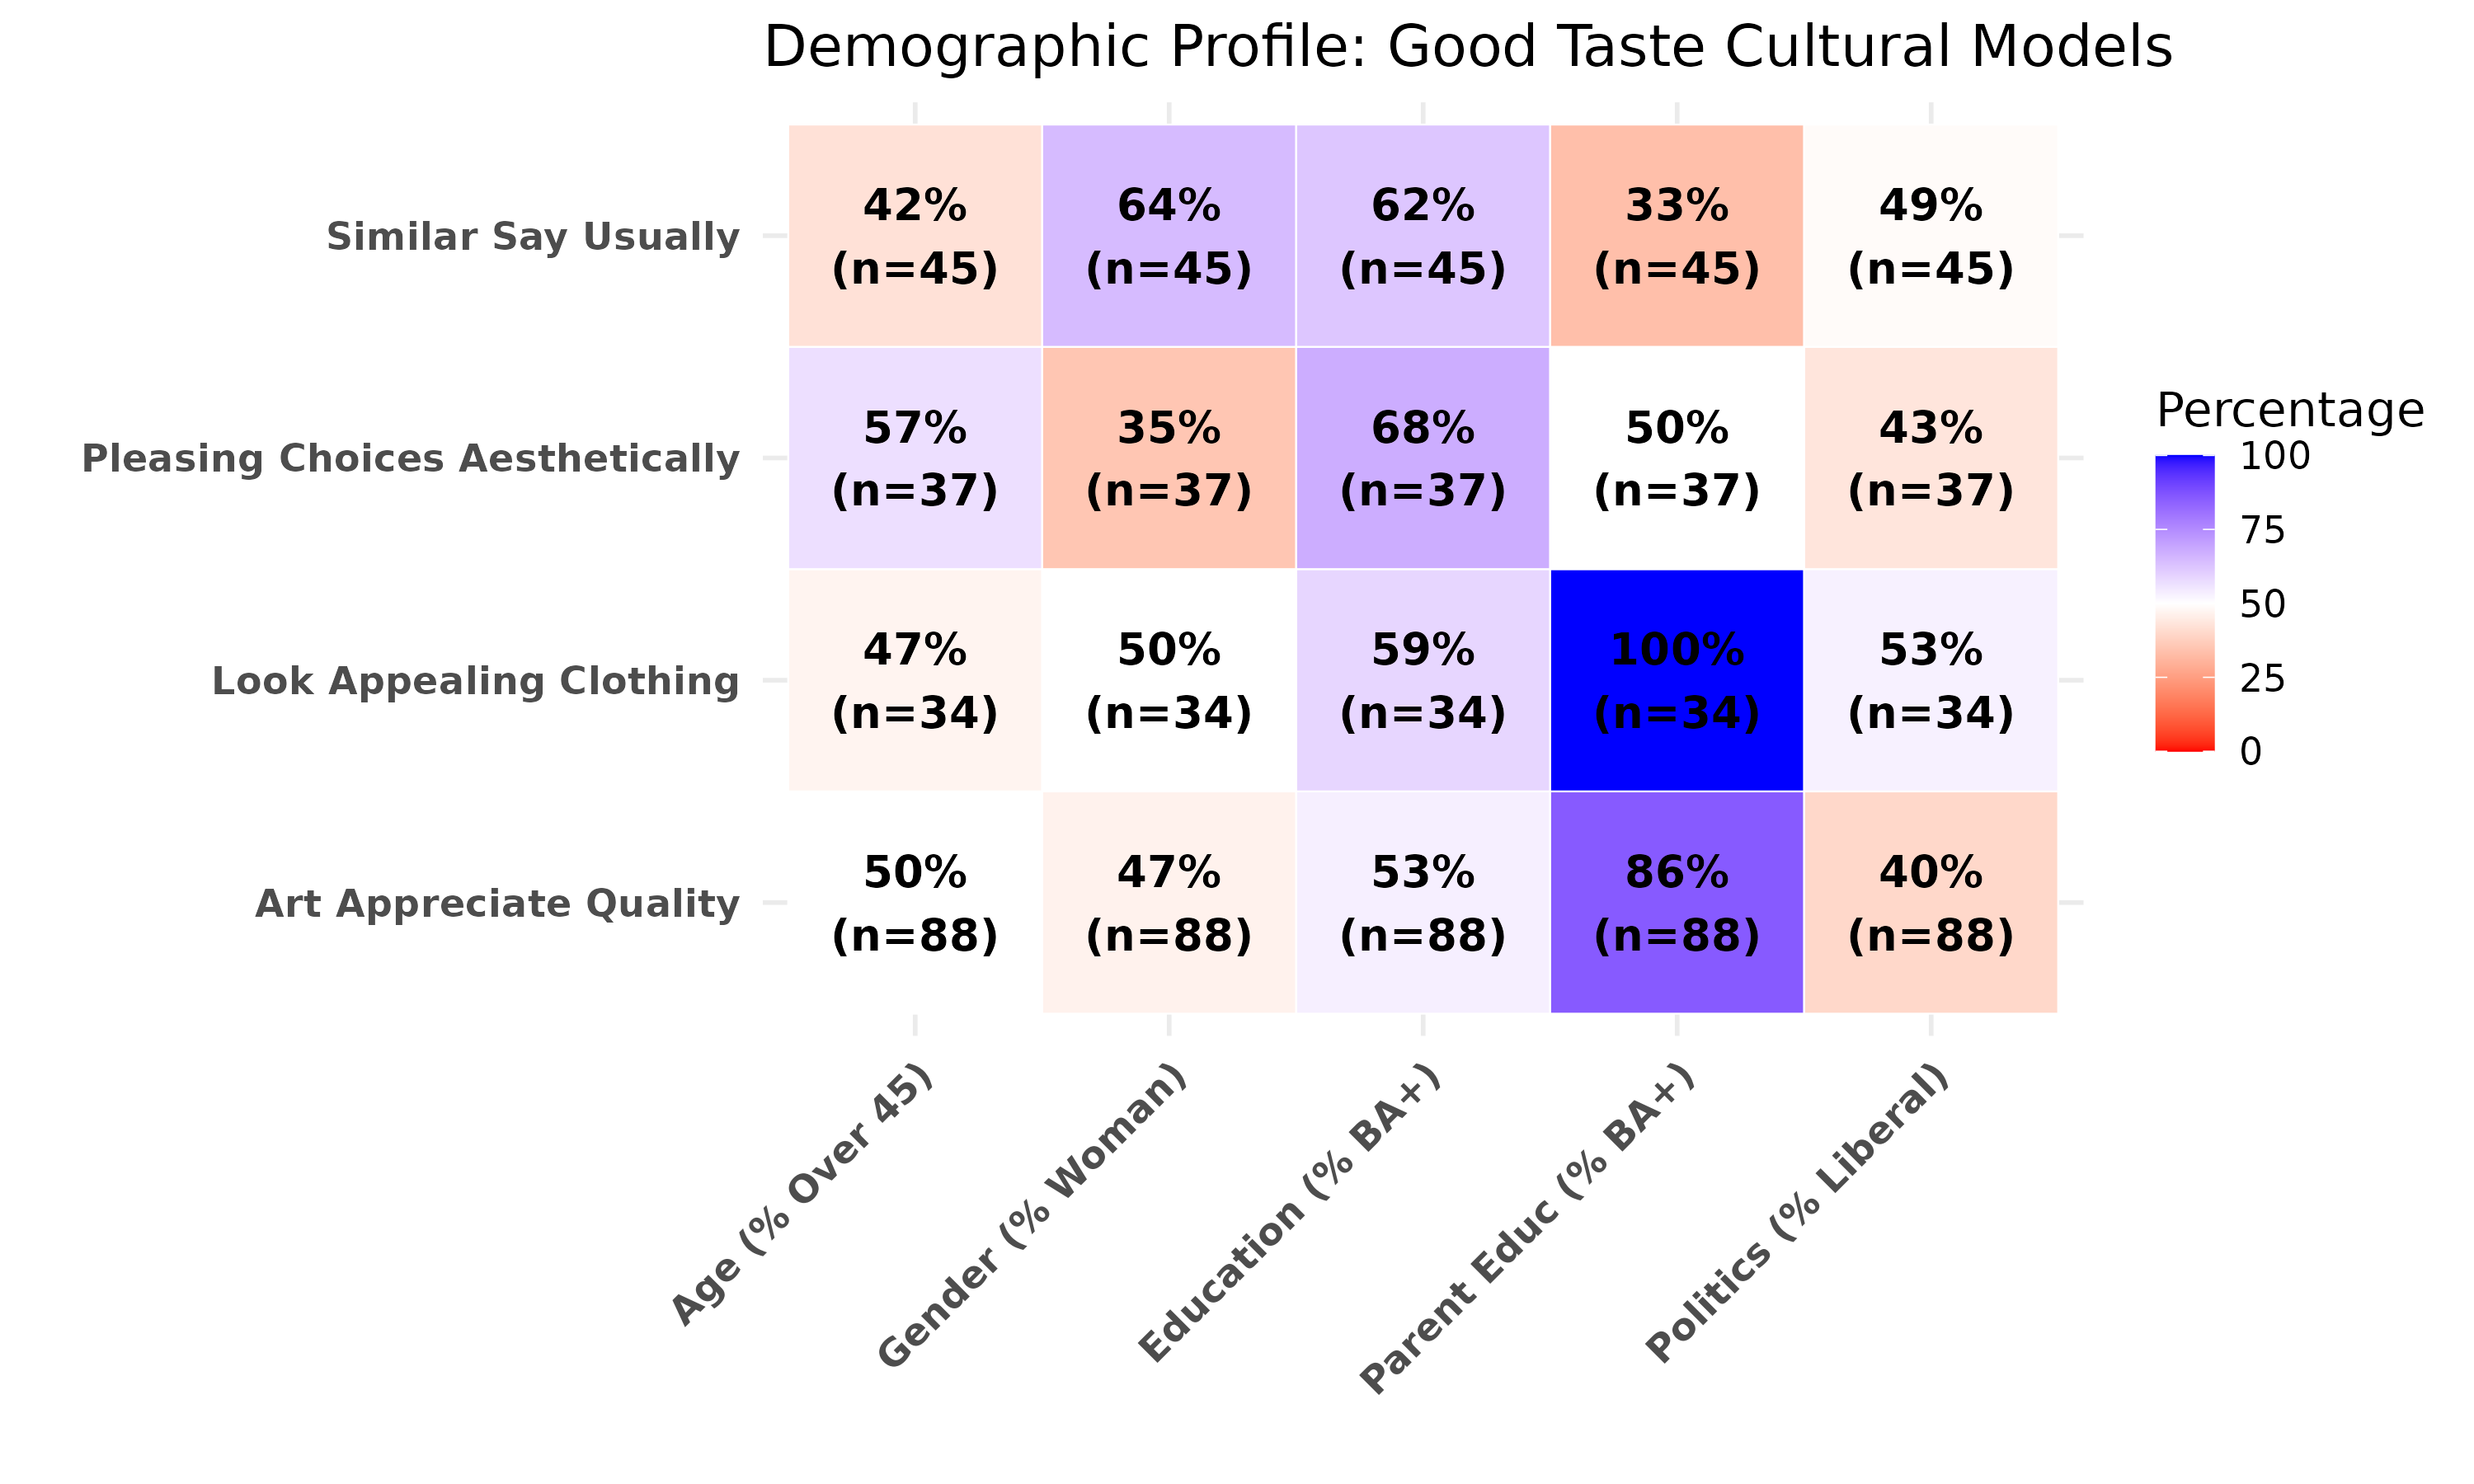
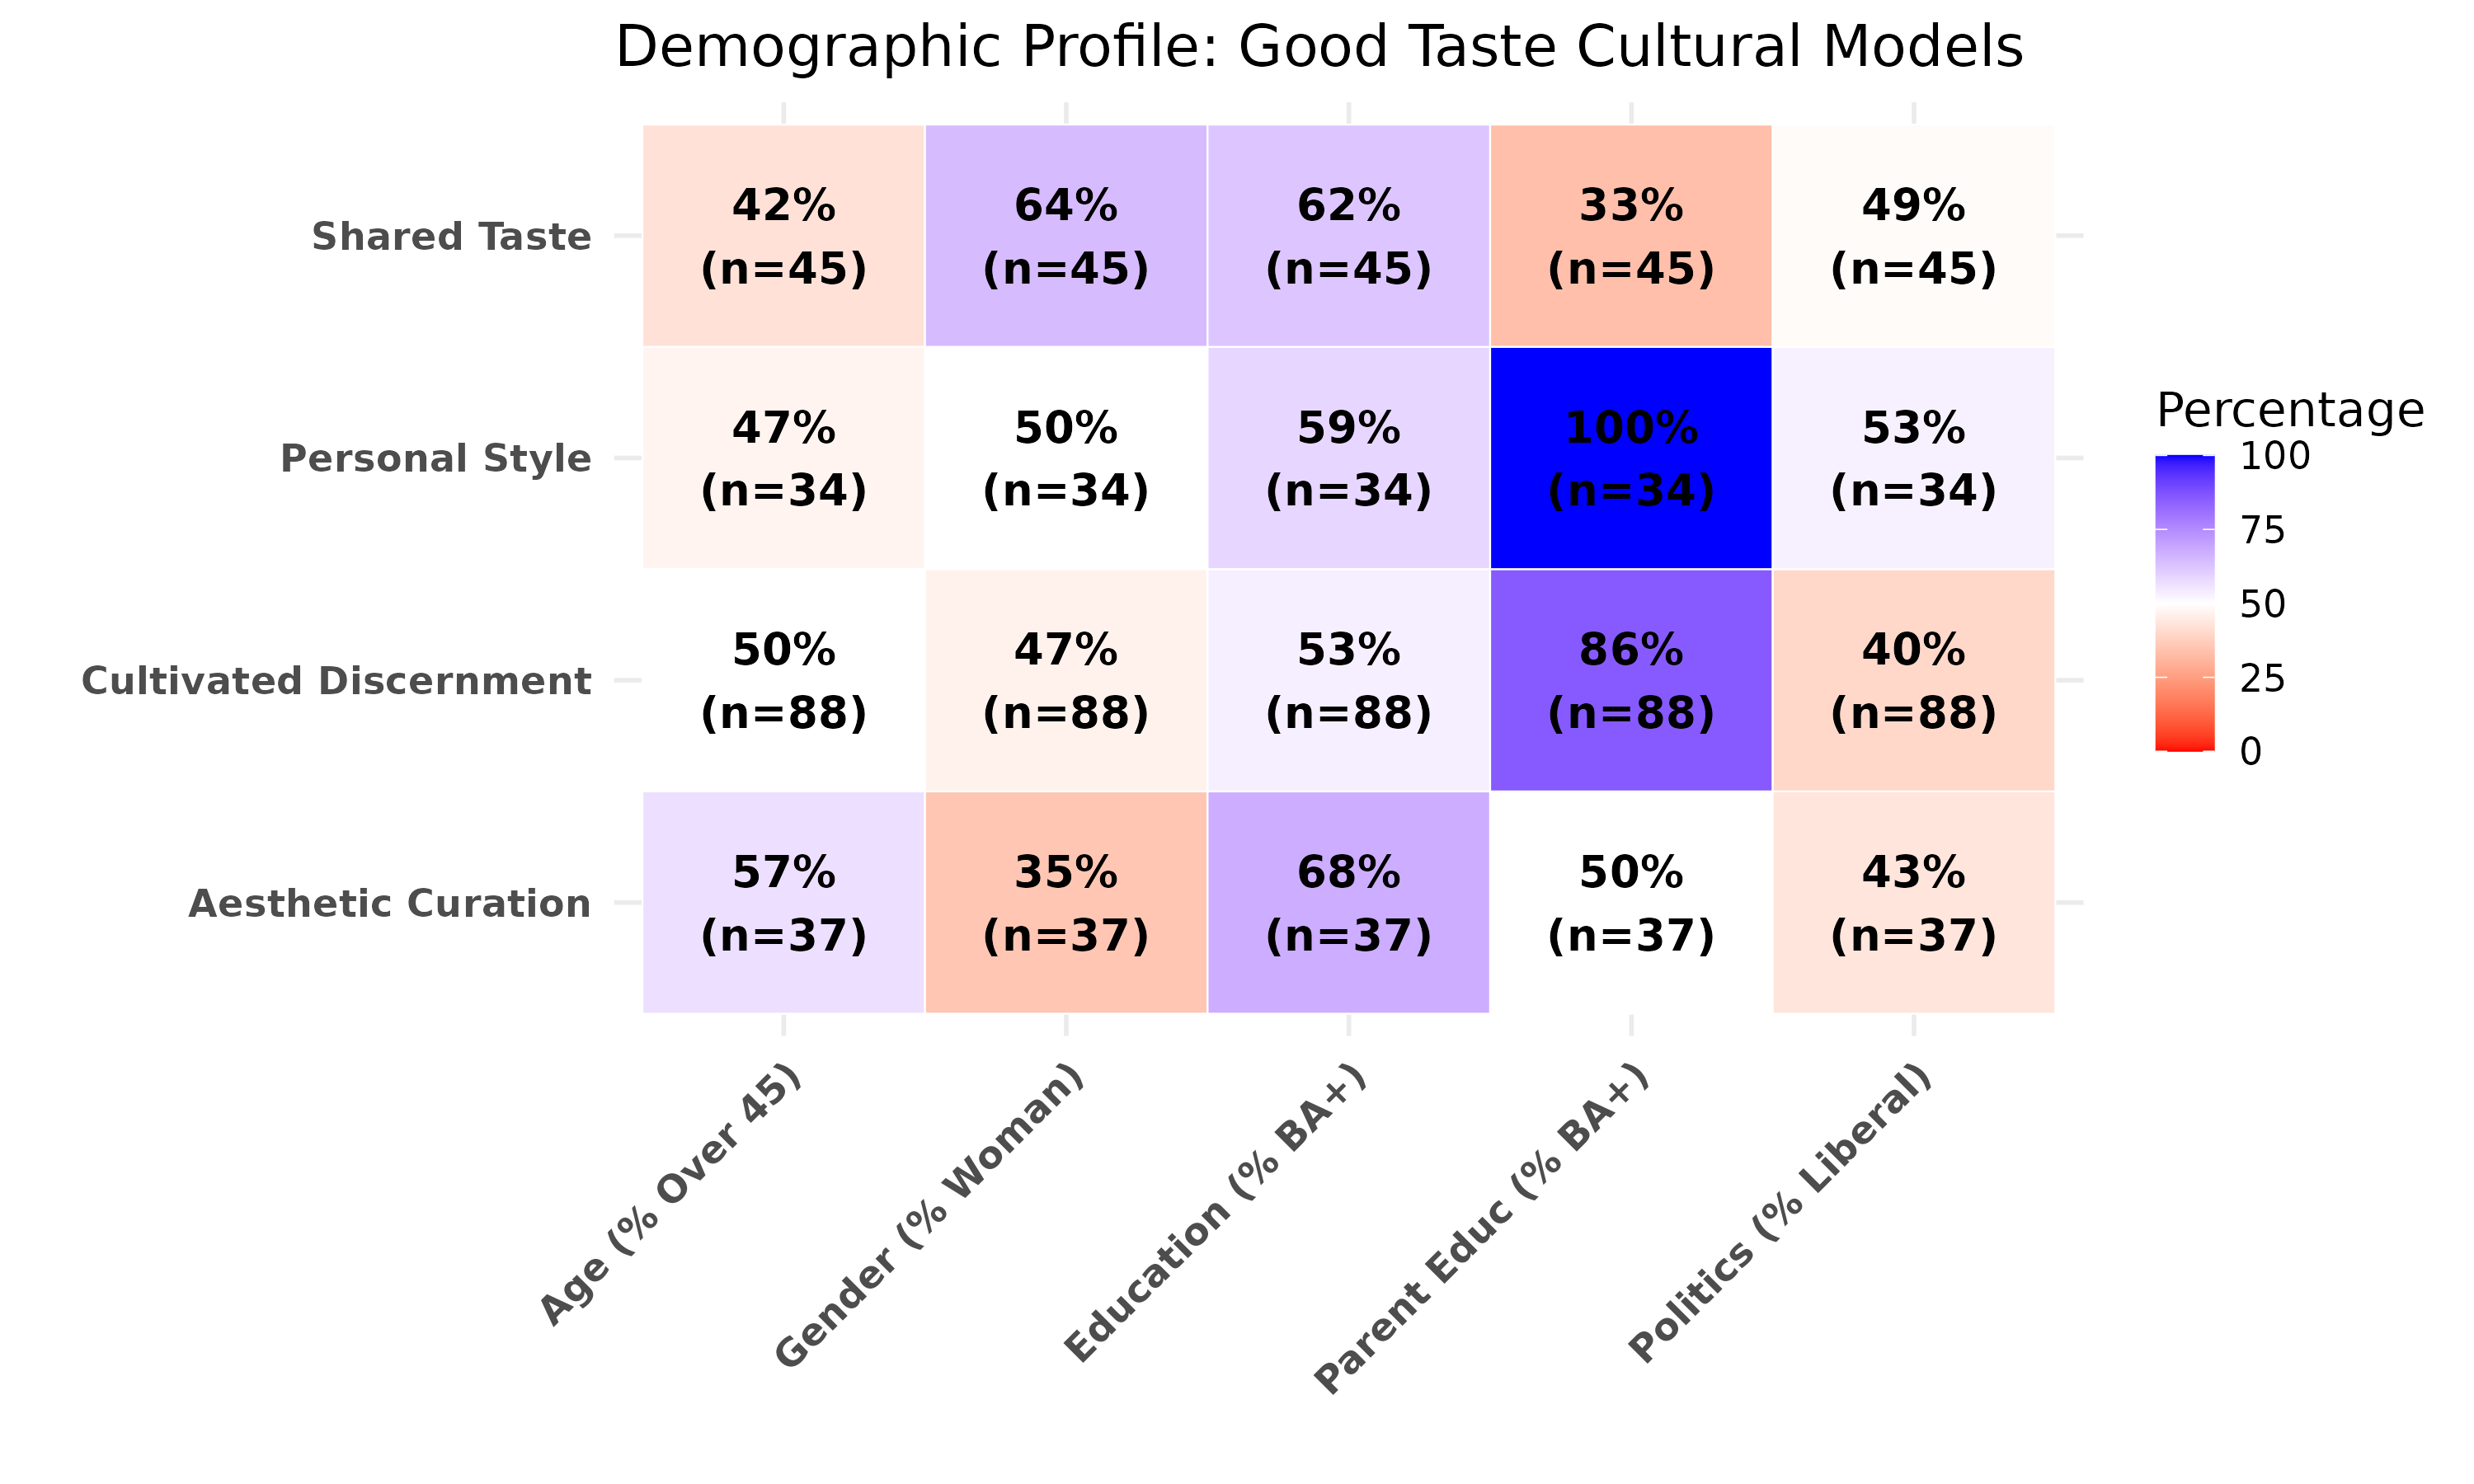
boofa

diff --git a/analysis.html b/analysis.html
@@ -566,48 +566,51 @@ Note
 <span id="cb4-97"><a href="#cb4-97" aria-hidden="true" tabindex="-1"></a></span>
 <span id="cb4-98"><a href="#cb4-98" aria-hidden="true" tabindex="-1"></a><span class="co"># 5. Generate Plots</span></span>
 <span id="cb4-99"><a href="#cb4-99" aria-hidden="true" tabindex="-1"></a>plot_means <span class="ot">&lt;-</span> <span class="cf">function</span>(means_data, x_col, title, filename, map_dict) {</span>
-<span id="cb4-100"><a href="#cb4-100" aria-hidden="true" tabindex="-1"></a>  <span class="co"># Add "Topic " prefix to make it look nicer</span></span>
+<span id="cb4-100"><a href="#cb4-100" aria-hidden="true" tabindex="-1"></a>  <span class="co"># Apply names</span></span>
 <span id="cb4-101"><a href="#cb4-101" aria-hidden="true" tabindex="-1"></a>  means_data[[x_col]] <span class="ot">&lt;-</span> map_dict[<span class="fu">as.character</span>(means_data[[x_col]])]</span>
 <span id="cb4-102"><a href="#cb4-102" aria-hidden="true" tabindex="-1"></a>  </span>
-<span id="cb4-103"><a href="#cb4-103" aria-hidden="true" tabindex="-1"></a>  p <span class="ot">&lt;-</span> <span class="fu">ggplot</span>(means_data, <span class="fu">aes</span>(<span class="at">x =</span> <span class="sc">!!</span><span class="fu">sym</span>(x_col), <span class="at">y =</span> mean_val, <span class="at">group =</span> <span class="dv">1</span>)) <span class="sc">+</span></span>
-<span id="cb4-104"><a href="#cb4-104" aria-hidden="true" tabindex="-1"></a>    <span class="fu">geom_line</span>(<span class="at">color =</span> <span class="st">"steelblue"</span>, <span class="at">linewidth =</span> <span class="dv">1</span>) <span class="sc">+</span></span>
-<span id="cb4-105"><a href="#cb4-105" aria-hidden="true" tabindex="-1"></a>    <span class="fu">geom_point</span>(<span class="at">color =</span> <span class="st">"steelblue"</span>, <span class="at">size =</span> <span class="dv">3</span>) <span class="sc">+</span></span>
-<span id="cb4-106"><a href="#cb4-106" aria-hidden="true" tabindex="-1"></a>    <span class="fu">geom_errorbar</span>(<span class="fu">aes</span>(<span class="at">ymin =</span> mean_val <span class="sc">-</span> <span class="fl">1.96</span><span class="sc">*</span>se, <span class="at">ymax =</span> mean_val <span class="sc">+</span> <span class="fl">1.96</span><span class="sc">*</span>se), <span class="at">width =</span> <span class="fl">0.2</span>, <span class="at">color=</span><span class="st">"steelblue"</span>) <span class="sc">+</span></span>
-<span id="cb4-107"><a href="#cb4-107" aria-hidden="true" tabindex="-1"></a>    <span class="fu">theme_minimal</span>() <span class="sc">+</span></span>
-<span id="cb4-108"><a href="#cb4-108" aria-hidden="true" tabindex="-1"></a>    <span class="fu">labs</span>(</span>
-<span id="cb4-109"><a href="#cb4-109" aria-hidden="true" tabindex="-1"></a>      <span class="at">title =</span> title,</span>
-<span id="cb4-110"><a href="#cb4-110" aria-hidden="true" tabindex="-1"></a>      <span class="at">x =</span> <span class="st">"Cultural Model"</span>,</span>
-<span id="cb4-111"><a href="#cb4-111" aria-hidden="true" tabindex="-1"></a>      <span class="at">y =</span> <span class="st">"Mean # of Domains (\u2265 2)"</span></span>
-<span id="cb4-112"><a href="#cb4-112" aria-hidden="true" tabindex="-1"></a>    ) <span class="sc">+</span></span>
-<span id="cb4-113"><a href="#cb4-113" aria-hidden="true" tabindex="-1"></a>    <span class="fu">theme</span>(</span>
-<span id="cb4-114"><a href="#cb4-114" aria-hidden="true" tabindex="-1"></a>      <span class="at">text =</span> <span class="fu">element_text</span>(<span class="at">size =</span> <span class="dv">14</span>),</span>
-<span id="cb4-115"><a href="#cb4-115" aria-hidden="true" tabindex="-1"></a>      <span class="at">axis.text.x =</span> <span class="fu">element_text</span>(<span class="at">angle =</span> <span class="dv">45</span>, <span class="at">hjust =</span> <span class="dv">1</span>)</span>
-<span id="cb4-116"><a href="#cb4-116" aria-hidden="true" tabindex="-1"></a>    )</span>
-<span id="cb4-117"><a href="#cb4-117" aria-hidden="true" tabindex="-1"></a>  <span class="fu">ggsave</span>(filename, <span class="at">plot =</span> p, <span class="at">width =</span> <span class="dv">6</span>, <span class="at">height =</span> <span class="dv">5</span>)</span>
-<span id="cb4-118"><a href="#cb4-118" aria-hidden="true" tabindex="-1"></a>}</span>
-<span id="cb4-119"><a href="#cb4-119" aria-hidden="true" tabindex="-1"></a></span>
-<span id="cb4-120"><a href="#cb4-120" aria-hidden="true" tabindex="-1"></a><span class="co"># Extract topic names dynamically from topic_info.csv</span></span>
-<span id="cb4-121"><a href="#cb4-121" aria-hidden="true" tabindex="-1"></a>get_topic_names <span class="ot">&lt;-</span> <span class="cf">function</span>(model_dir) {</span>
-<span id="cb4-122"><a href="#cb4-122" aria-hidden="true" tabindex="-1"></a>  info <span class="ot">&lt;-</span> <span class="fu">read_csv</span>(<span class="fu">file.path</span>(model_dir, <span class="st">"topic_info.csv"</span>), <span class="at">show_col_types =</span> <span class="cn">FALSE</span>)</span>
-<span id="cb4-123"><a href="#cb4-123" aria-hidden="true" tabindex="-1"></a>  names_clean <span class="ot">&lt;-</span> <span class="fu">str_replace_all</span>(<span class="fu">str_replace</span>(info<span class="sc">$</span>Name, <span class="st">"^</span><span class="sc">\\</span><span class="st">d+_"</span>, <span class="st">""</span>), <span class="st">"_"</span>, <span class="st">" "</span>)</span>
-<span id="cb4-124"><a href="#cb4-124" aria-hidden="true" tabindex="-1"></a>  names_title <span class="ot">&lt;-</span> <span class="fu">str_to_title</span>(names_clean)</span>
-<span id="cb4-125"><a href="#cb4-125" aria-hidden="true" tabindex="-1"></a>  map <span class="ot">&lt;-</span> <span class="fu">setNames</span>(names_title, <span class="fu">as.character</span>(info<span class="sc">$</span>Topic))</span>
-<span id="cb4-126"><a href="#cb4-126" aria-hidden="true" tabindex="-1"></a>  map[<span class="st">"-1"</span>] <span class="ot">&lt;-</span> <span class="st">"Outlier"</span></span>
-<span id="cb4-127"><a href="#cb4-127" aria-hidden="true" tabindex="-1"></a>  map</span>
-<span id="cb4-128"><a href="#cb4-128" aria-hidden="true" tabindex="-1"></a>}</span>
-<span id="cb4-129"><a href="#cb4-129" aria-hidden="true" tabindex="-1"></a></span>
-<span id="cb4-130"><a href="#cb4-130" aria-hidden="true" tabindex="-1"></a>t_g_d <span class="ot">&lt;-</span> <span class="fu">get_topic_names</span>(good_model_dir)</span>
-<span id="cb4-131"><a href="#cb4-131" aria-hidden="true" tabindex="-1"></a>t_b_d <span class="ot">&lt;-</span> <span class="fu">get_topic_names</span>(bad_model_dir)</span>
+<span id="cb4-103"><a href="#cb4-103" aria-hidden="true" tabindex="-1"></a>  <span class="co"># Format names</span></span>
+<span id="cb4-104"><a href="#cb4-104" aria-hidden="true" tabindex="-1"></a>  means_data[[x_col]] <span class="ot">&lt;-</span> <span class="fu">str_replace_all</span>(means_data[[x_col]], <span class="st">" "</span>, <span class="st">"</span><span class="sc">\n</span><span class="st">"</span>)</span>
+<span id="cb4-105"><a href="#cb4-105" aria-hidden="true" tabindex="-1"></a>  </span>
+<span id="cb4-106"><a href="#cb4-106" aria-hidden="true" tabindex="-1"></a>  p <span class="ot">&lt;-</span> <span class="fu">ggplot</span>(means_data, <span class="fu">aes</span>(<span class="at">x =</span> <span class="sc">!!</span><span class="fu">sym</span>(x_col), <span class="at">y =</span> mean_val, <span class="at">group =</span> <span class="dv">1</span>)) <span class="sc">+</span></span>
+<span id="cb4-107"><a href="#cb4-107" aria-hidden="true" tabindex="-1"></a>    <span class="fu">geom_line</span>(<span class="at">color =</span> <span class="st">"steelblue"</span>, <span class="at">linewidth =</span> <span class="dv">1</span>) <span class="sc">+</span></span>
+<span id="cb4-108"><a href="#cb4-108" aria-hidden="true" tabindex="-1"></a>    <span class="fu">geom_point</span>(<span class="at">color =</span> <span class="st">"steelblue"</span>, <span class="at">size =</span> <span class="dv">3</span>) <span class="sc">+</span></span>
+<span id="cb4-109"><a href="#cb4-109" aria-hidden="true" tabindex="-1"></a>    <span class="fu">geom_errorbar</span>(<span class="fu">aes</span>(<span class="at">ymin =</span> mean_val <span class="sc">-</span> <span class="fl">1.96</span><span class="sc">*</span>se, <span class="at">ymax =</span> mean_val <span class="sc">+</span> <span class="fl">1.96</span><span class="sc">*</span>se), <span class="at">width =</span> <span class="fl">0.2</span>, <span class="at">color=</span><span class="st">"steelblue"</span>) <span class="sc">+</span></span>
+<span id="cb4-110"><a href="#cb4-110" aria-hidden="true" tabindex="-1"></a>    <span class="fu">theme_minimal</span>() <span class="sc">+</span></span>
+<span id="cb4-111"><a href="#cb4-111" aria-hidden="true" tabindex="-1"></a>    <span class="fu">labs</span>(</span>
+<span id="cb4-112"><a href="#cb4-112" aria-hidden="true" tabindex="-1"></a>      <span class="at">title =</span> title,</span>
+<span id="cb4-113"><a href="#cb4-113" aria-hidden="true" tabindex="-1"></a>      <span class="at">x =</span> <span class="st">"Cultural Model"</span>,</span>
+<span id="cb4-114"><a href="#cb4-114" aria-hidden="true" tabindex="-1"></a>      <span class="at">y =</span> <span class="st">"Mean # of Domains (\u2265 2)"</span></span>
+<span id="cb4-115"><a href="#cb4-115" aria-hidden="true" tabindex="-1"></a>    ) <span class="sc">+</span></span>
+<span id="cb4-116"><a href="#cb4-116" aria-hidden="true" tabindex="-1"></a>    <span class="fu">theme</span>(</span>
+<span id="cb4-117"><a href="#cb4-117" aria-hidden="true" tabindex="-1"></a>      <span class="at">text =</span> <span class="fu">element_text</span>(<span class="at">size =</span> <span class="dv">14</span>),</span>
+<span id="cb4-118"><a href="#cb4-118" aria-hidden="true" tabindex="-1"></a>      <span class="at">axis.text.x =</span> <span class="fu">element_text</span>(<span class="at">angle =</span> <span class="dv">0</span>, <span class="at">hjust =</span> <span class="fl">0.5</span>)</span>
+<span id="cb4-119"><a href="#cb4-119" aria-hidden="true" tabindex="-1"></a>    )</span>
+<span id="cb4-120"><a href="#cb4-120" aria-hidden="true" tabindex="-1"></a>  <span class="fu">ggsave</span>(filename, <span class="at">plot =</span> p, <span class="at">width =</span> <span class="dv">8</span>, <span class="at">height =</span> <span class="dv">5</span>)</span>
+<span id="cb4-121"><a href="#cb4-121" aria-hidden="true" tabindex="-1"></a>}</span>
+<span id="cb4-122"><a href="#cb4-122" aria-hidden="true" tabindex="-1"></a></span>
+<span id="cb4-123"><a href="#cb4-123" aria-hidden="true" tabindex="-1"></a><span class="co"># Extract topic names dynamically from topic_info.csv</span></span>
+<span id="cb4-124"><a href="#cb4-124" aria-hidden="true" tabindex="-1"></a>get_topic_names <span class="ot">&lt;-</span> <span class="cf">function</span>(model_dir) {</span>
+<span id="cb4-125"><a href="#cb4-125" aria-hidden="true" tabindex="-1"></a>  info <span class="ot">&lt;-</span> <span class="fu">read_csv</span>(<span class="fu">file.path</span>(model_dir, <span class="st">"topic_info.csv"</span>), <span class="at">show_col_types =</span> <span class="cn">FALSE</span>)</span>
+<span id="cb4-126"><a href="#cb4-126" aria-hidden="true" tabindex="-1"></a>  names_clean <span class="ot">&lt;-</span> <span class="fu">str_replace_all</span>(<span class="fu">str_replace</span>(info<span class="sc">$</span>Name, <span class="st">"^</span><span class="sc">\\</span><span class="st">d+_"</span>, <span class="st">""</span>), <span class="st">"_"</span>, <span class="st">" "</span>)</span>
+<span id="cb4-127"><a href="#cb4-127" aria-hidden="true" tabindex="-1"></a>  names_title <span class="ot">&lt;-</span> <span class="fu">str_to_title</span>(names_clean)</span>
+<span id="cb4-128"><a href="#cb4-128" aria-hidden="true" tabindex="-1"></a>  map <span class="ot">&lt;-</span> <span class="fu">setNames</span>(names_title, <span class="fu">as.character</span>(info<span class="sc">$</span>Topic))</span>
+<span id="cb4-129"><a href="#cb4-129" aria-hidden="true" tabindex="-1"></a>  map[<span class="st">"-1"</span>] <span class="ot">&lt;-</span> <span class="st">"Outlier"</span></span>
+<span id="cb4-130"><a href="#cb4-130" aria-hidden="true" tabindex="-1"></a>  map</span>
+<span id="cb4-131"><a href="#cb4-131" aria-hidden="true" tabindex="-1"></a>}</span>
 <span id="cb4-132"><a href="#cb4-132" aria-hidden="true" tabindex="-1"></a></span>
-<span id="cb4-133"><a href="#cb4-133" aria-hidden="true" tabindex="-1"></a><span class="fu">dir.create</span>(<span class="st">"report/Plots"</span>, <span class="at">showWarnings =</span> <span class="cn">FALSE</span>)</span>
-<span id="cb4-134"><a href="#cb4-134" aria-hidden="true" tabindex="-1"></a><span class="cf">if</span> (<span class="sc">!</span><span class="fu">is.null</span>(res_good)) {</span>
-<span id="cb4-135"><a href="#cb4-135" aria-hidden="true" tabindex="-1"></a>  <span class="fu">plot_means</span>(res_good<span class="sc">$</span>means, <span class="st">"Good_Def"</span>, <span class="st">"Mean Number of Distinguishable Domains</span><span class="sc">\n</span><span class="st">by Good Taste Cultural Model"</span>, <span class="st">"report/Plots/domain_counts_good.png"</span>, t_g_d)</span>
-<span id="cb4-136"><a href="#cb4-136" aria-hidden="true" tabindex="-1"></a>}</span>
-<span id="cb4-137"><a href="#cb4-137" aria-hidden="true" tabindex="-1"></a><span class="cf">if</span> (<span class="sc">!</span><span class="fu">is.null</span>(res_bad)) {</span>
-<span id="cb4-138"><a href="#cb4-138" aria-hidden="true" tabindex="-1"></a>  <span class="fu">plot_means</span>(res_bad<span class="sc">$</span>means, <span class="st">"Bad_Def"</span>, <span class="st">"Mean Number of Distinguishable Domains</span><span class="sc">\n</span><span class="st">by Bad Taste Cultural Model"</span>, <span class="st">"report/Plots/domain_counts_bad.png"</span>, t_b_d)</span>
+<span id="cb4-133"><a href="#cb4-133" aria-hidden="true" tabindex="-1"></a>t_g_d <span class="ot">&lt;-</span> <span class="fu">get_topic_names</span>(good_model_dir)</span>
+<span id="cb4-134"><a href="#cb4-134" aria-hidden="true" tabindex="-1"></a>t_b_d <span class="ot">&lt;-</span> <span class="fu">get_topic_names</span>(bad_model_dir)</span>
+<span id="cb4-135"><a href="#cb4-135" aria-hidden="true" tabindex="-1"></a></span>
+<span id="cb4-136"><a href="#cb4-136" aria-hidden="true" tabindex="-1"></a><span class="fu">dir.create</span>(<span class="st">"report/Plots"</span>, <span class="at">showWarnings =</span> <span class="cn">FALSE</span>)</span>
+<span id="cb4-137"><a href="#cb4-137" aria-hidden="true" tabindex="-1"></a><span class="cf">if</span> (<span class="sc">!</span><span class="fu">is.null</span>(res_good)) {</span>
+<span id="cb4-138"><a href="#cb4-138" aria-hidden="true" tabindex="-1"></a>  <span class="fu">plot_means</span>(res_good<span class="sc">$</span>means, <span class="st">"Good_Def"</span>, <span class="st">"Mean Number of Distinguishable Domains</span><span class="sc">\n</span><span class="st">by Good Taste Cultural Model"</span>, <span class="st">"report/Plots/domain_counts_good.png"</span>, t_g_d)</span>
 <span id="cb4-139"><a href="#cb4-139" aria-hidden="true" tabindex="-1"></a>}</span>
-<span id="cb4-140"><a href="#cb4-140" aria-hidden="true" tabindex="-1"></a></span>
-<span id="cb4-141"><a href="#cb4-141" aria-hidden="true" tabindex="-1"></a><span class="fu">print</span>(<span class="st">"Domain counts ANOVA and plots generated successfully."</span>)</span></code></pre></div><button title="Copy to Clipboard" class="code-copy-button"><i class="bi"></i></button></div>
+<span id="cb4-140"><a href="#cb4-140" aria-hidden="true" tabindex="-1"></a><span class="cf">if</span> (<span class="sc">!</span><span class="fu">is.null</span>(res_bad)) {</span>
+<span id="cb4-141"><a href="#cb4-141" aria-hidden="true" tabindex="-1"></a>  <span class="fu">plot_means</span>(res_bad<span class="sc">$</span>means, <span class="st">"Bad_Def"</span>, <span class="st">"Mean Number of Distinguishable Domains</span><span class="sc">\n</span><span class="st">by Bad Taste Cultural Model"</span>, <span class="st">"report/Plots/domain_counts_bad.png"</span>, t_b_d)</span>
+<span id="cb4-142"><a href="#cb4-142" aria-hidden="true" tabindex="-1"></a>}</span>
+<span id="cb4-143"><a href="#cb4-143" aria-hidden="true" tabindex="-1"></a></span>
+<span id="cb4-144"><a href="#cb4-144" aria-hidden="true" tabindex="-1"></a><span class="fu">print</span>(<span class="st">"Domain counts ANOVA and plots generated successfully."</span>)</span></code></pre></div><button title="Copy to Clipboard" class="code-copy-button"><i class="bi"></i></button></div>
 </div>
 </section>
 <section id="anova-for-distinction-domains" class="level2">
@@ -862,7 +865,7 @@ Note
 <span id="cb6-151"><a href="#cb6-151" aria-hidden="true" tabindex="-1"></a>    </span>
 <span id="cb6-152"><a href="#cb6-152" aria-hidden="true" tabindex="-1"></a>    p <span class="ot">&lt;-</span> <span class="fu">ggplot</span>(r_df, <span class="fu">aes</span>(<span class="at">x =</span> Var1, <span class="at">y =</span> Var2, <span class="at">fill =</span> Residual)) <span class="sc">+</span></span>
 <span id="cb6-153"><a href="#cb6-153" aria-hidden="true" tabindex="-1"></a>      <span class="fu">geom_tile</span>(<span class="at">color =</span> <span class="st">"white"</span>) <span class="sc">+</span></span>
-<span id="cb6-154"><a href="#cb6-154" aria-hidden="true" tabindex="-1"></a>      <span class="fu">geom_text</span>(<span class="fu">aes</span>(<span class="at">label =</span> <span class="fu">round</span>(Residual, <span class="dv">2</span>)), <span class="at">color =</span> <span class="st">"black"</span>, <span class="at">size =</span> <span class="dv">12</span>, <span class="at">fontface =</span> <span class="st">"bold"</span>) <span class="sc">+</span></span>
+<span id="cb6-154"><a href="#cb6-154" aria-hidden="true" tabindex="-1"></a>      <span class="fu">geom_text</span>(<span class="fu">aes</span>(<span class="at">label =</span> <span class="fu">round</span>(Residual, <span class="dv">2</span>)), <span class="at">color =</span> <span class="st">"black"</span>, <span class="at">size =</span> <span class="dv">6</span>, <span class="at">fontface =</span> <span class="st">"bold"</span>) <span class="sc">+</span></span>
 <span id="cb6-155"><a href="#cb6-155" aria-hidden="true" tabindex="-1"></a>      <span class="fu">scale_fill_gradient2</span>(<span class="at">low =</span> <span class="st">"indianred"</span>, <span class="at">mid =</span> <span class="st">"white"</span>, <span class="at">high =</span> <span class="st">"steelblue"</span>, <span class="at">midpoint =</span> <span class="dv">0</span>) <span class="sc">+</span></span>
 <span id="cb6-156"><a href="#cb6-156" aria-hidden="true" tabindex="-1"></a>      <span class="fu">scale_x_discrete</span>(<span class="at">position =</span> <span class="st">"top"</span>) <span class="sc">+</span></span>
 <span id="cb6-157"><a href="#cb6-157" aria-hidden="true" tabindex="-1"></a>      <span class="fu">theme_minimal</span>(<span class="at">base_size =</span> <span class="dv">14</span>) <span class="sc">+</span></span>
@@ -923,8 +926,8 @@ Note
 <span id="cb6-212"><a href="#cb6-212" aria-hidden="true" tabindex="-1"></a>  <span class="fu">ggsave</span>(filename, <span class="at">plot =</span> p, <span class="at">width =</span> <span class="dv">11</span>, <span class="at">height =</span> <span class="dv">7</span>)</span>
 <span id="cb6-213"><a href="#cb6-213" aria-hidden="true" tabindex="-1"></a>}</span>
 <span id="cb6-214"><a href="#cb6-214" aria-hidden="true" tabindex="-1"></a></span>
-<span id="cb6-215"><a href="#cb6-215" aria-hidden="true" tabindex="-1"></a><span class="fu">create_heatmap</span>(m_df, <span class="st">"Good_Def"</span>, <span class="st">"Average Distinction Rating by Domain (Good Taste Definitions)"</span>, <span class="st">"report/Plots/distinction_domains.png"</span>)</span>
-<span id="cb6-216"><a href="#cb6-216" aria-hidden="true" tabindex="-1"></a><span class="fu">create_heatmap</span>(m_df, <span class="st">"Bad_Def"</span>, <span class="st">"Average Distinction Rating by Domain (Bad Taste Definitions)"</span>, <span class="st">"report/Plots/distinction_domains_bad.png"</span>)</span></code></pre></div><button title="Copy to Clipboard" class="code-copy-button"><i class="bi"></i></button></div>
+<span id="cb6-215"><a href="#cb6-215" aria-hidden="true" tabindex="-1"></a><span class="fu">create_heatmap</span>(m_df, <span class="st">"Good_Def"</span>, <span class="st">"Average Distinction Rating by Domain (Good Taste Definitions)"</span>, <span class="st">"Plots/distinction_domains.png"</span>)</span>
+<span id="cb6-216"><a href="#cb6-216" aria-hidden="true" tabindex="-1"></a><span class="fu">create_heatmap</span>(m_df, <span class="st">"Bad_Def"</span>, <span class="st">"Average Distinction Rating by Domain (Bad Taste Definitions)"</span>, <span class="st">"Plots/distinction_domains_bad.png"</span>)</span></code></pre></div><button title="Copy to Clipboard" class="code-copy-button"><i class="bi"></i></button></div>
 </div>
 </section>
 </section>

diff --git a/Tabs/bad_taste_def_summary_table.tex b/Tabs/bad_taste_def_summary_table.tex
@@ -5,10 +5,10 @@
 \toprule
 Topic & Count & Name & Representation \\
 \midrule
-0 & 62 & Likes-Different-Opinion & likes, different, opinion, say, art, dislike, interests... \\
-1 & 66 & Choices-Music-Clothing & choices, music, clothing, preferences, shows, food, unappeal... \\
-2 & 50 & Usually-Quality-Ugly & usually, quality, ugly, poor, way, likes, looks... \\
-3 & 46 & Care-Really-Look & care, really, look, colors, items, gaudy, know... \\
+0 & 62 & Relational Distance & likes, different, opinion, say, art, dislike, interests... \\
+1 & 66 & Questionable Consumption & choices, music, clothing, preferences, shows, food, unappeal... \\
+2 & 50 & Lack of Refinement & usually, quality, ugly, poor, way, likes, looks... \\
+3 & 46 & Aesthetic Neglect & care, really, look, colors, items, gaudy, know... \\
 \bottomrule
 \end{tabular}
 }

diff --git a/Tabs/bad_taste_rep_docs.tex b/Tabs/bad_taste_rep_docs.tex
@@ -5,10 +5,10 @@
 \toprule
 Topic & Name & Representative Document \\
 \midrule
-0 & Likes-Different-Opinion & ``When I say that someone has bad taste, it means that in my opinion, the things that person likes is very different from the things I like, so, therefore, they have bad taste.'' \\
-1 & Choices-Music-Clothing & ``Someone who has bad taste in clothing choices, music, food, dating preferences. '' \\
-2 & Usually-Quality-Ugly & ``Usually it is about gaining noteriety at the expense of quality. It is a the immature desire tp shock others in negative ways and usually means poor quality.'' \\
-3 & Care-Really-Look & ``Someone who has bad taste doesn't really care or even notice how an object is made. It could be junky and poorly finished. This is like an old dented car that was painted by a kid with a spray can of some garish color paint.'' \\
+0 & Relational Distance & ``When I say that someone has bad taste, it means that in my opinion, the things that person likes is very different from the things I like, so, therefore, they have bad taste.'' \\
+1 & Questionable Consumption & ``Someone who has bad taste in clothing choices, music, food, dating preferences. '' \\
+2 & Lack of Refinement & ``Usually it is about gaining noteriety at the expense of quality. It is a the immature desire tp shock others in negative ways and usually means poor quality.'' \\
+3 & Aesthetic Neglect & ``Someone who has bad taste doesn't really care or even notice how an object is made. It could be junky and poorly finished. This is like an old dented car that was painted by a kid with a spray can of some garish color paint.'' \\
 \bottomrule
 \end{tabular}
 \caption{Representative Quotes for Bad Taste Cultural Models}

diff --git a/Tabs/good_taste_def_summary_table.tex b/Tabs/good_taste_def_summary_table.tex
@@ -5,10 +5,10 @@
 \toprule
 Topic & Count & Name & Representation \\
 \midrule
-0 & 46 & Similar-Say-Usually & similar, say, usually, likes, opinion, interests, certain... \\
-1 & 99 & Art-Appreciate-Quality & art, appreciate, quality, enjoy, food, way, style... \\
-2 & 39 & Look-Appealing-Clothing & look, appealing, clothing, way, knows, pick, listen... \\
-3 & 40 & Pleasing-Choices-Aesthetically & pleasing, choices, aesthetically, make, stylish, typically, ... \\
+0 & 46 & Shared Taste & similar, say, usually, likes, opinion, interests, certain... \\
+1 & 99 & Cultivated Discernment & art, appreciate, quality, enjoy, food, way, style... \\
+2 & 39 & Personal Style & look, appealing, clothing, way, knows, pick, listen... \\
+3 & 40 & Aesthetic Curation & pleasing, choices, aesthetically, make, stylish, typically, ... \\
 \bottomrule
 \end{tabular}
 }

diff --git a/Tabs/good_taste_rep_docs.tex b/Tabs/good_taste_rep_docs.tex
@@ -5,10 +5,10 @@
 \toprule
 Topic & Name & Representative Document \\
 \midrule
-0 & Similar-Say-Usually & ``I’d say a person has good taste if I like similar things.'' \\
-1 & Art-Appreciate-Quality & ``What I mean by that is they have a taste similar to mine or one I can appreciate. People who enjoy the same type of books or movies or art.  Though I can understand someone may have exceptional taste and I don't agree with it.  Such as enjoying Rothko's art or Wharton's novels.  '' \\
-2 & Look-Appealing-Clothing & ``Something that they like has an appealing look'' \\
-3 & Pleasing-Choices-Aesthetically & ``Their choices are aesthetically pleasing to me. '' \\
+0 & Shared Taste & ``I’d say a person has good taste if I like similar things.'' \\
+1 & Cultivated Discernment & ``What I mean by that is they have a taste similar to mine or one I can appreciate. People who enjoy the same type of books or movies or art.  Though I can understand someone may have exceptional taste and I don't agree with it.  Such as enjoying Rothko's art or Wharton's novels.  '' \\
+2 & Personal Style & ``Something that they like has an appealing look'' \\
+3 & Aesthetic Curation & ``Their choices are aesthetically pleasing to me. '' \\
 \bottomrule
 \end{tabular}
 \caption{Representative Quotes for Good Taste Cultural Models}